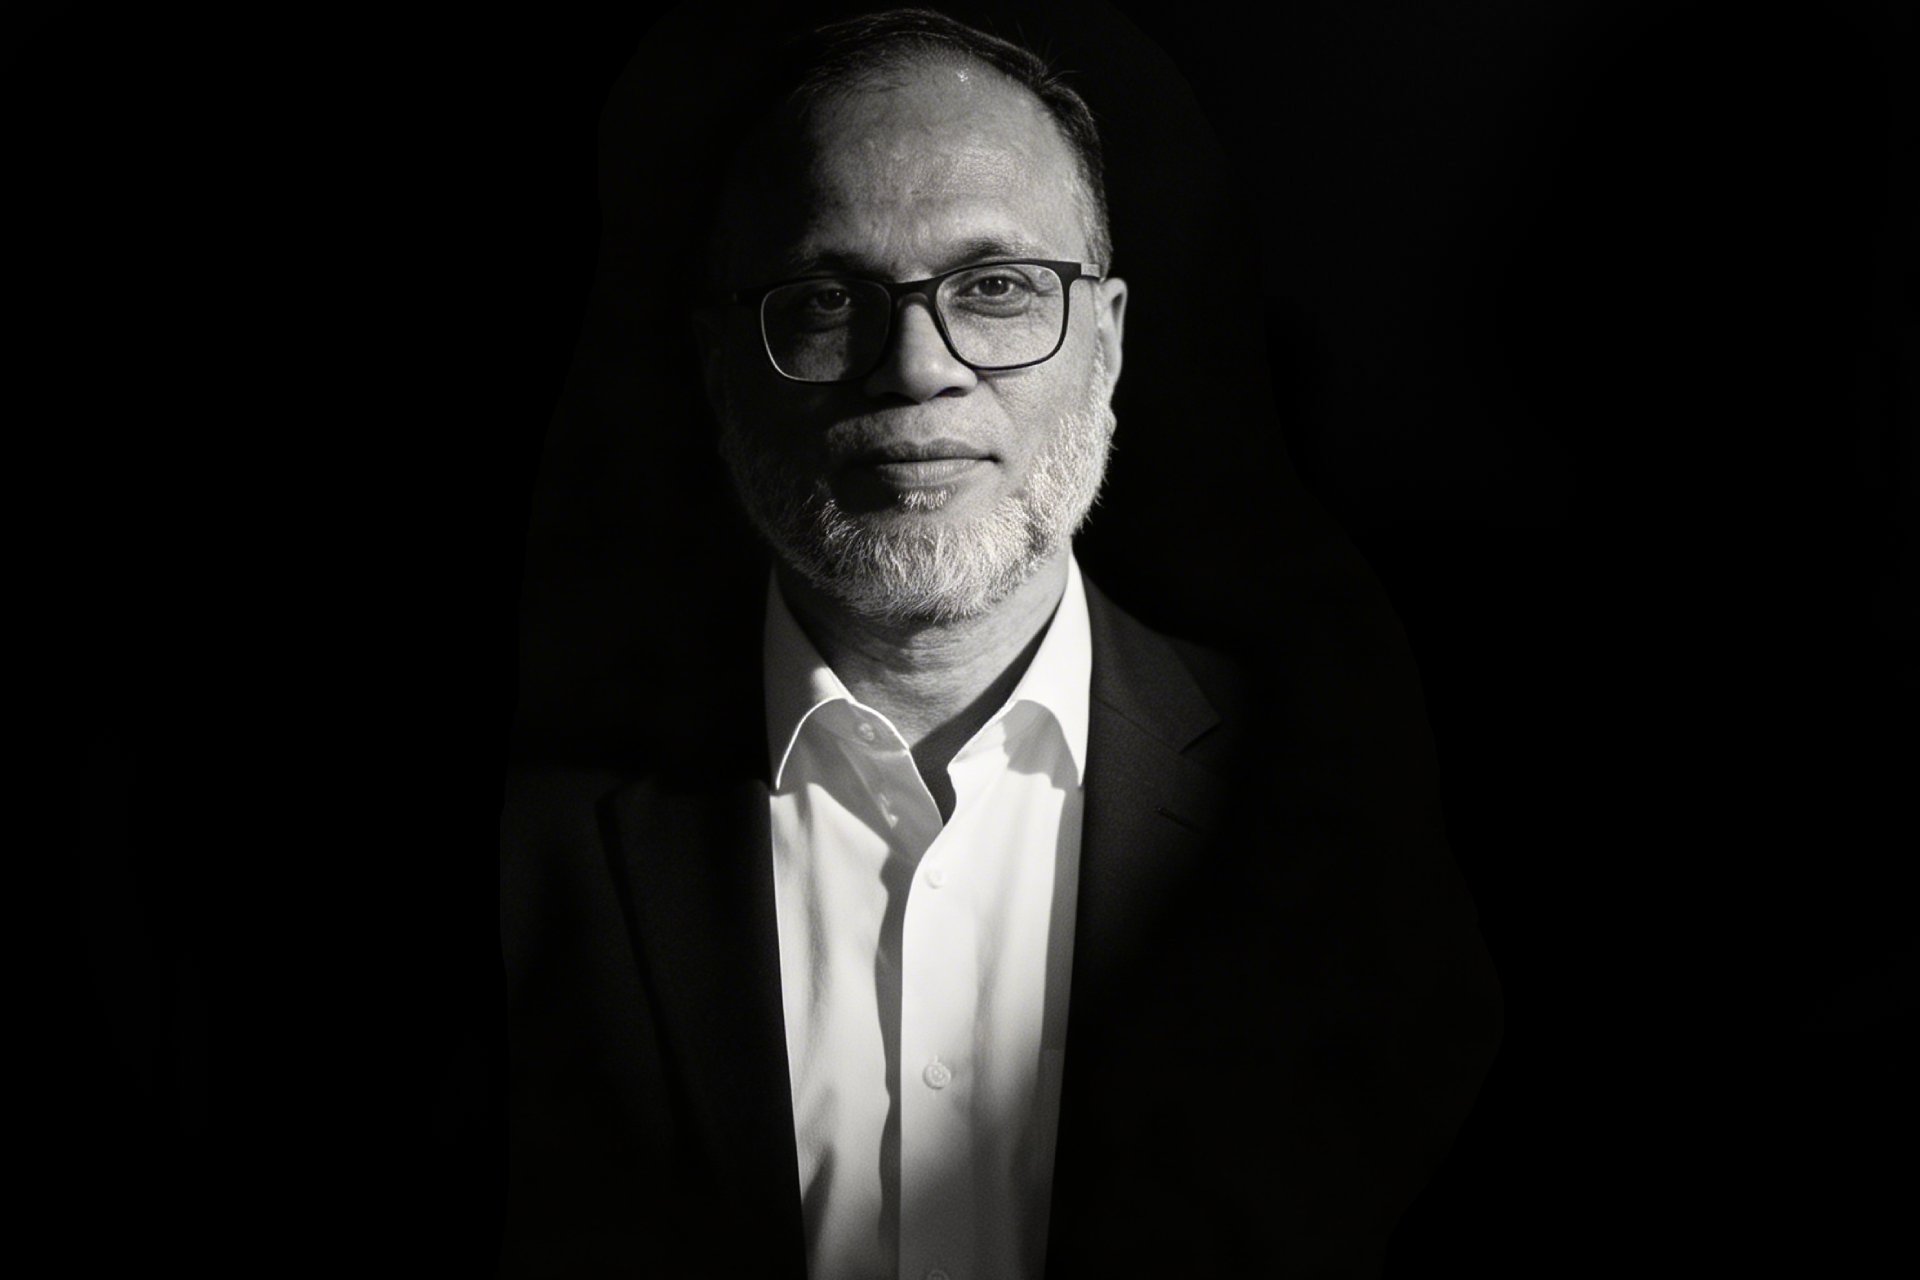
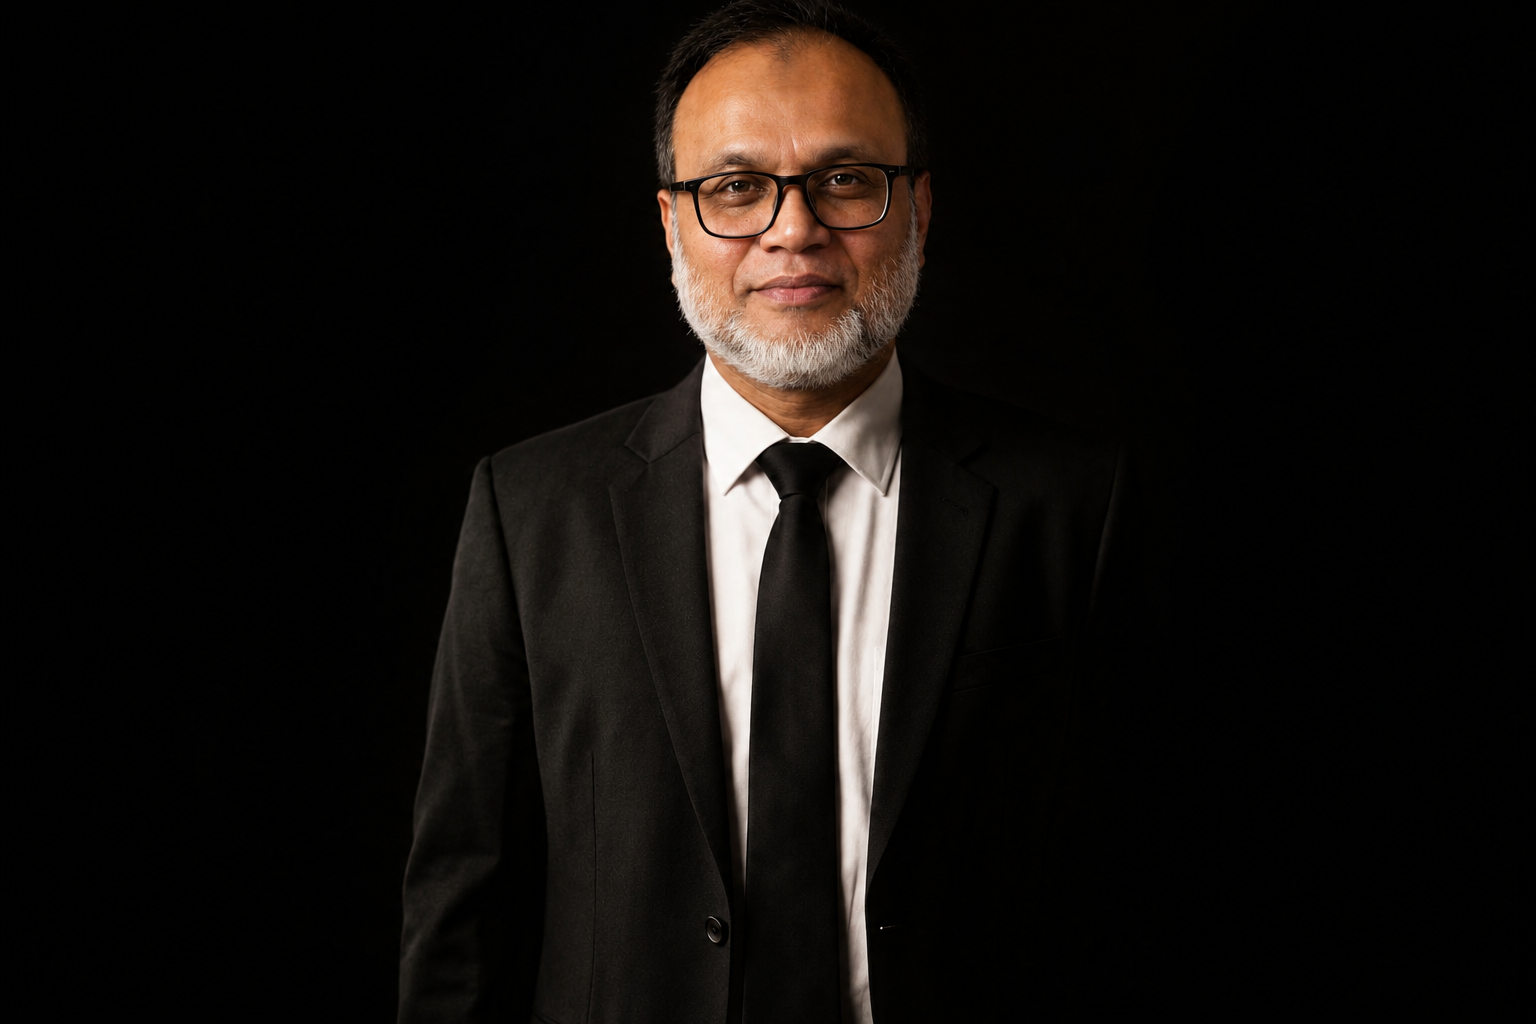
img update

Changed region(s): [[0.2812, 0.0, 0.625, 1.0], [0.25, 0.8438, 0.3125, 0.9688], [0.25, 0.7188, 0.3125, 0.8125]]

diff --git a/index.html b/index.html
@@ -111,7 +111,7 @@
     	==== Start Header -->
 
     <header class="header valign bg-img wave wave-light" data-scroll-index="0" data-overlay-dark="2"
-        data-background="img/bg.jpg" data-stellar-background-ratio="0.5">
+        data-background="img/bg.png" data-stellar-background-ratio="0.5">
         <div id="particles-js"></div>
         <div class="container">
             <div class="row">
